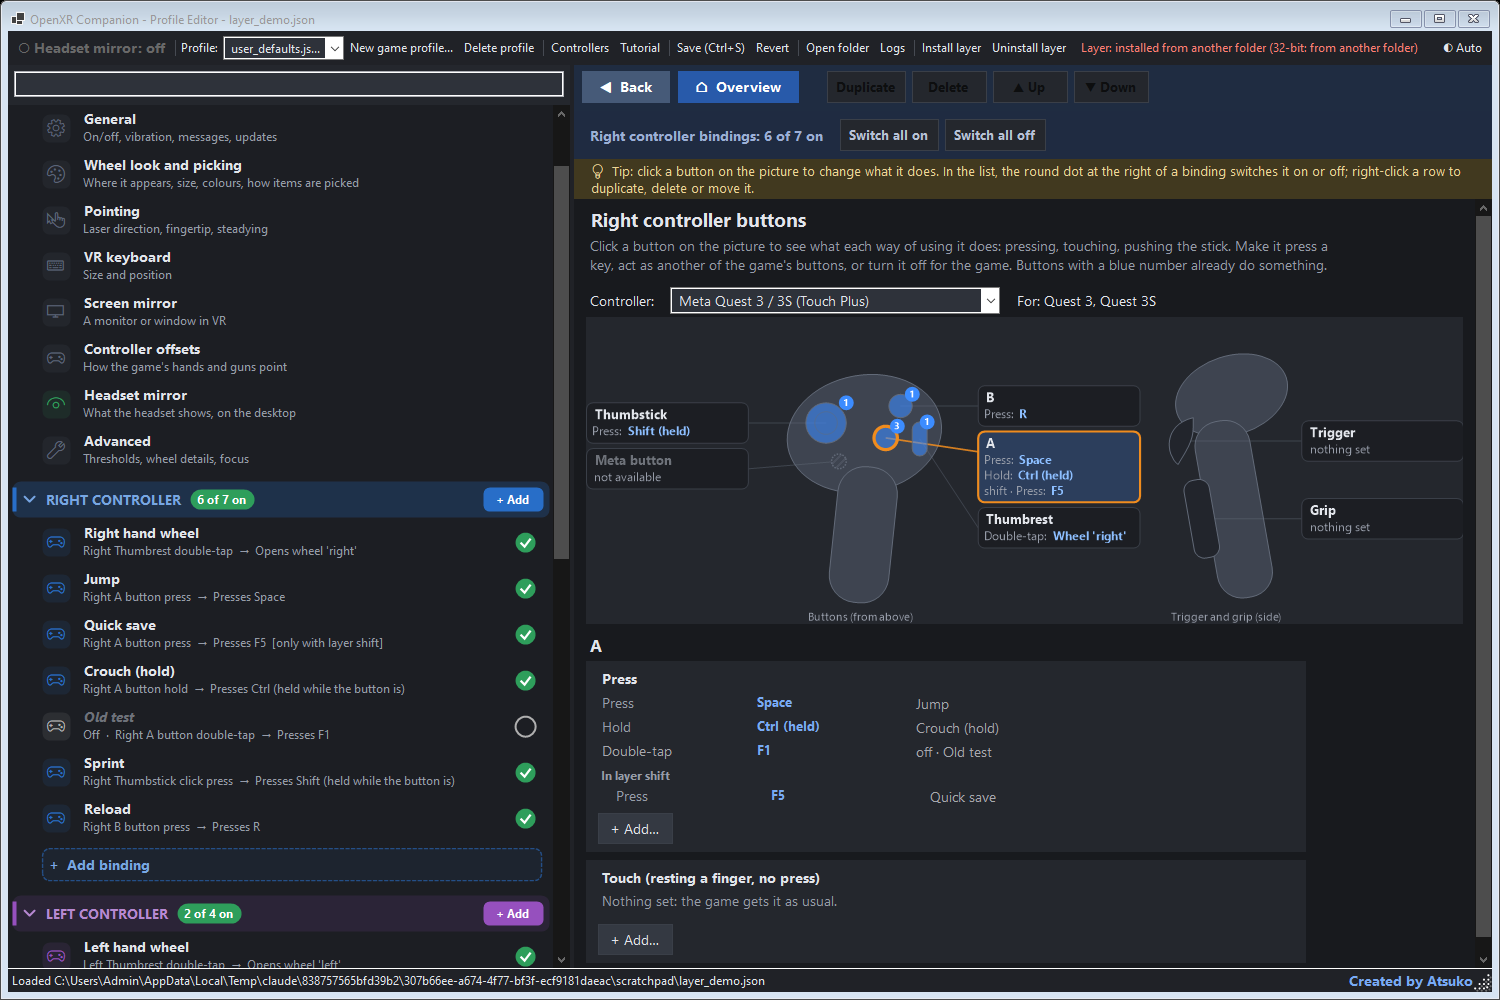
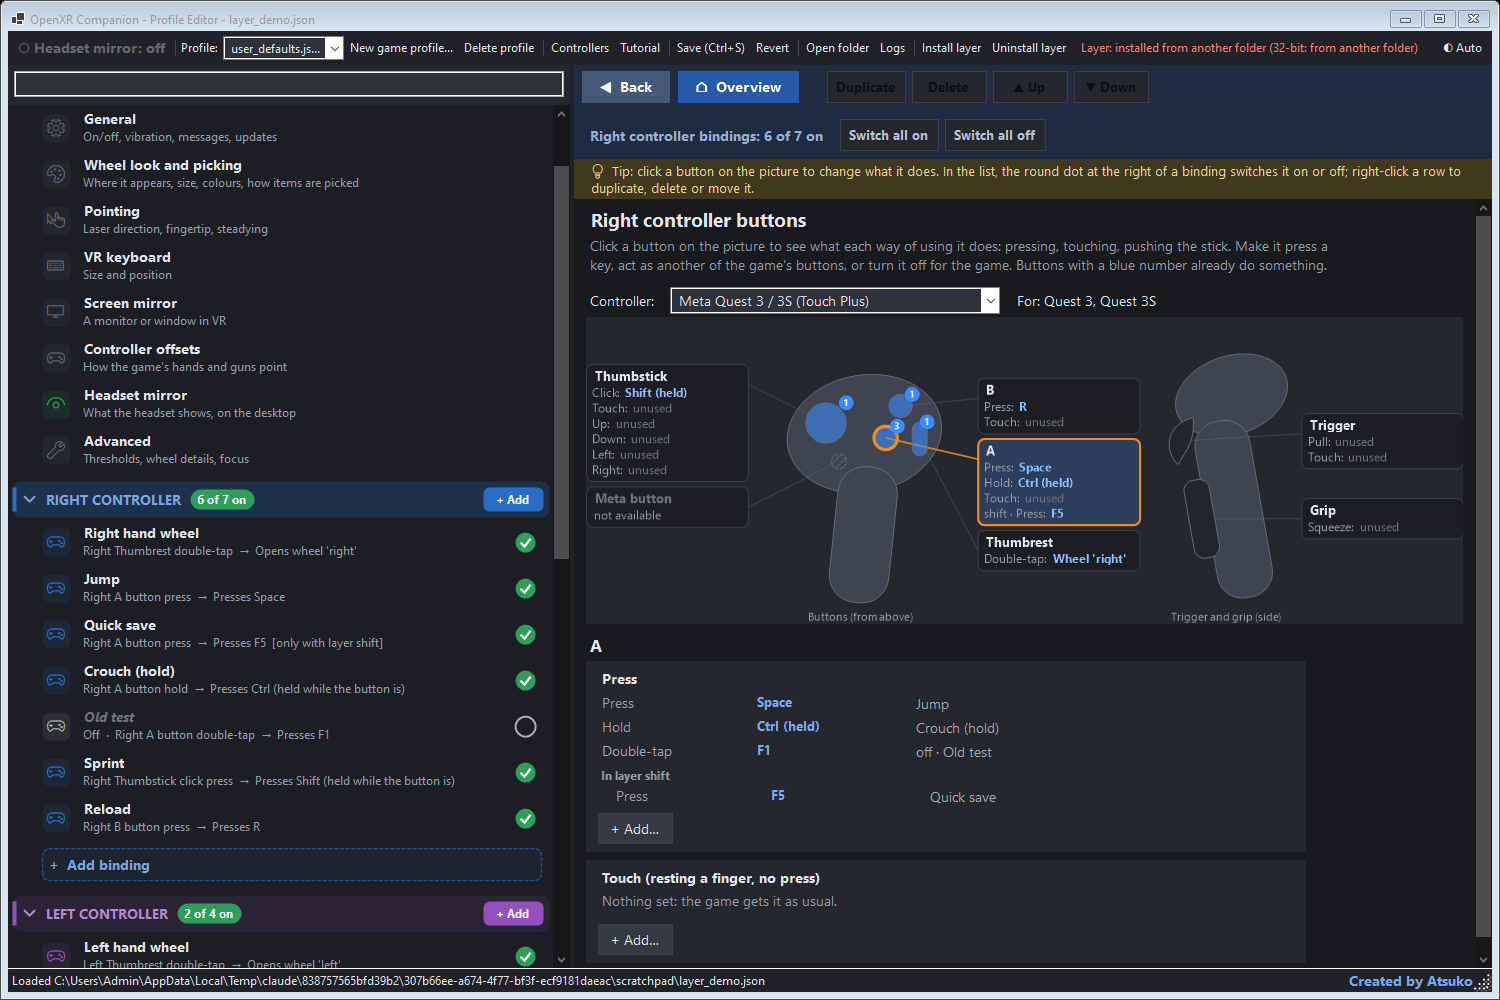
Controller pages: tags list every way of using a button, 'unused' in grey where nothing is set (SteamVR style)

Changed region(s): [[0.6133, 0.403, 0.7667, 0.589], [0.3987, 0.372, 0.46, 0.527], [0.8587, 0.403, 0.92, 0.465]]

diff --git a/editor/ControllerPicture.cs b/editor/ControllerPicture.cs
@@ -6,8 +6,8 @@ namespace OpenXRCompanionEditor;
 public readonly record struct PartUse(int On, int Off);
 
 // One line in a part's tag: how it's used ("Press", "Hold", "Up") and what it does ("Space"); Layer when it only
-// works in a layer.
-public readonly record struct TagLine(string When, string Does, string Layer = null);
+// works in a layer; IsUnused for a way of using the part that does nothing yet (shown greyed, "unused").
+public readonly record struct TagLine(string When, string Does, string Layer = null, bool IsUnused = false);
 
 // Draws one controller (a ControllerLayout, for one hand) with a tag for each part that lists what the part does,
 // like SteamVR's binding screen, and says which part was clicked. The selected part is outlined.
@@ -18,7 +18,7 @@ public class ControllerPicture : Control
     // Tags grow with their lines, and the canvas grows taller when a column of tags needs it.
     const float LabelWidth = 158, Gap = 10, CanvasMargin = 14, TagGap = 5;
     const float NameHeight = 19, LineHeight = 14.5f, MinTagHeight = 38;
-    const int MaxLines = 4;
+    const int MaxLines = 8; // a stick has six ways to use it
     const float TopX = LabelWidth, MiddleX = TopX + ControllerLayouts.TopWidth + Gap;
     const float SideX = MiddleX + LabelWidth + Gap;
     const float CanvasWidth = SideX + ControllerLayouts.SideWidth + LabelWidth;
@@ -364,6 +364,7 @@ public class ControllerPicture : Control
         using var whenBrush = new SolidBrush(Theme.SubText);
         using var doesBrush = new SolidBrush(Theme.IsDark ? Color.FromArgb(140, 190, 255) : Color.FromArgb(30, 95, 200));
         using var doesFont = new Font("Segoe UI", 8.5f, FontStyle.Bold);
+        using var unusedBrush = new SolidBrush(Theme.OffText);
         using var exact = (StringFormat)StringFormat.GenericTypographic.Clone();
         exact.FormatFlags |= StringFormatFlags.MeasureTrailingSpaces; // keep the space after "Press:"
         int shown = ShownLines(part);
@@ -380,7 +381,8 @@ public class ControllerPicture : Control
             string when = (line.Layer != null ? line.Layer + " · " : "") + line.When + ": ";
             float whenWidth = g.MeasureString(when, subFont, PointF.Empty, exact).Width;
             g.DrawString(when, subFont, whenBrush, new PointF(tag.X + 6, y), exact);
-            g.DrawString(line.Does, doesFont, doesBrush, new RectangleF(tag.X + 6 + whenWidth, y, tag.Width - 12 - whenWidth, 14), fmt);
+            g.DrawString(line.Does, line.IsUnused ? subFont : doesFont, line.IsUnused ? unusedBrush : doesBrush,
+                         new RectangleF(tag.X + 6 + whenWidth, y, tag.Width - 12 - whenWidth, 14), fmt);
         }
     }
 

diff --git a/editor/ControllerButtonsPage.cs b/editor/ControllerButtonsPage.cs
@@ -167,7 +167,8 @@ public class ControllerButtonsPage : UserControl
             picture.Height = h;
     }
 
-    // What a part's tag lists, SteamVR style: one line per switched-on binding, normal ones first, layer ones after.
+    // What a part's tag lists, SteamVR style: every way of using it, with what it does or "unused"; then the bindings
+    // that only work in a layer.
     public static IReadOnlyList<TagLine> TagLinesOf(IEnumerable<BindingModel> bindings, int hand, ControllerPart part)
     {
         var lines = new List<TagLine>();
@@ -177,11 +178,25 @@ public class ControllerButtonsPage : UserControl
             foreach (var way in part.Ways)
             {
                 string input = ControllerLayouts.InputOf(hand, part, way);
-                foreach (var b in bindings.Where(b => b.Enabled && IsLayerOnly(b) == layerOnes && QuickBindings.FiredBy(b, input)))
+                var bound = bindings.Where(b => b.Enabled && IsLayerOnly(b) == layerOnes && QuickBindings.FiredBy(b, input)).ToList();
+                foreach (var b in bound)
                     lines.Add(new TagLine(ShortWhen(part, way, b), DoesText(b.Action), layerOnes ? b.Layers : null));
+                if (bound.Count == 0 && !layerOnes)
+                    lines.Add(new TagLine(WayWord(part, way), "unused", IsUnused: true));
             }
         return lines;
     }
+
+    // A way of using a part in one word: "Press", "Pull", "Squeeze", "Click", "Touch", "Up"...
+    static string WayWord(ControllerPart part, string way) => way switch
+    {
+        "touch" => "Touch",
+        "up" => "Up",
+        "down" => "Down",
+        "left" => "Left",
+        "right" => "Right",
+        _ => part.Comp switch { "trigger" => "Pull", "grip" => "Squeeze", "thumbrest" => "Touch", "thumbstick" => "Click", _ => "Press" },
+    };
 
     // "Press", "Hold", "Touch", "Up", "Up, hold", "Pull"...
     static string ShortWhen(ControllerPart part, string way, BindingModel b)
@@ -197,7 +212,7 @@ public class ControllerButtonsPage : UserControl
             _ => null,
         };
         if (wayWord == null && b.Gesture == GestureKind.Press)
-            return part.Comp switch { "trigger" => "Pull", "grip" => "Squeeze", "thumbrest" => "Touch", _ => gesture };
+            return WayWord(part, way);
         if (wayWord == null)
             return gesture;
         return b.Gesture == GestureKind.Press ? wayWord : wayWord + ", " + gesture.ToLowerInvariant();
